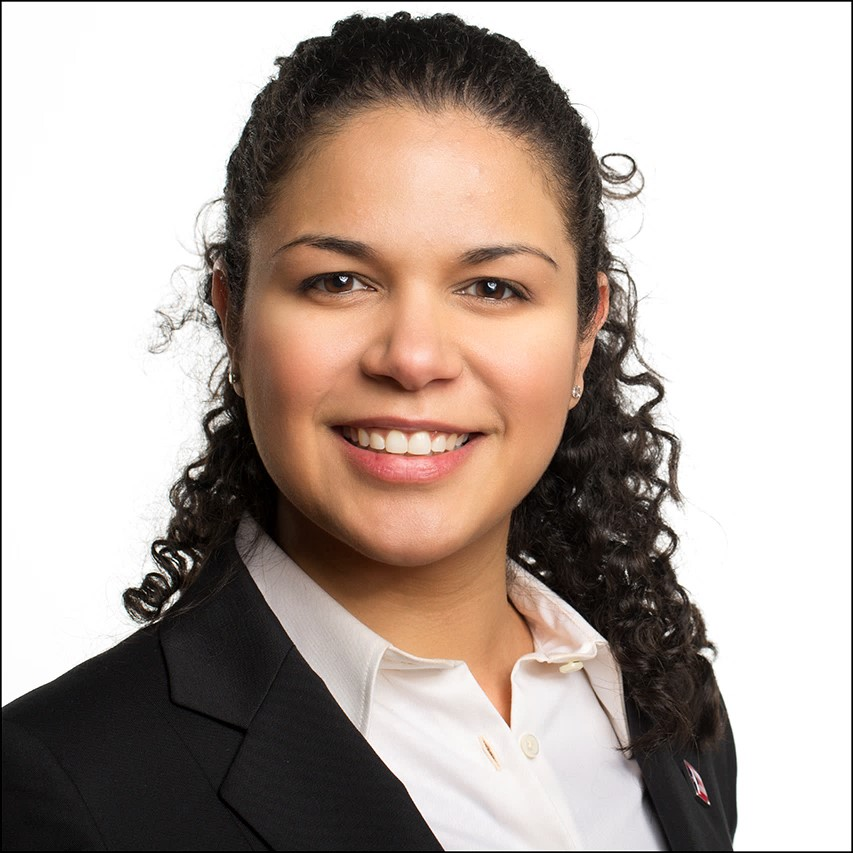
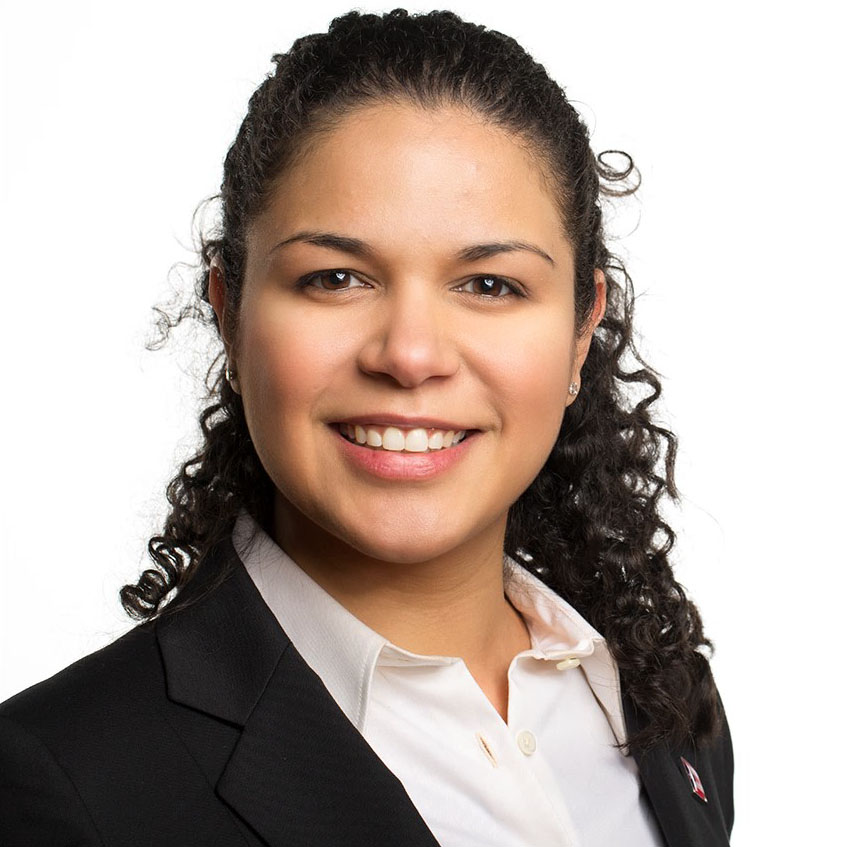
picture updates
-smaller pictures for faster loading
-christoph in group picture
-different background image for about inascon tile

diff --git a/team.md b/team.md
@@ -4,7 +4,7 @@ title: Team
 description: This year's organisation team
 nav-menu: true
 show_tile: true
-image: team_neu_sw.png
+image: team_neu_sw_christoph.jpg
 permalink: team
 ---
  {% include team.html %}

diff --git a/about.md b/about.md
@@ -2,7 +2,7 @@
 layout: post
 title: About INASCON 2022
 description: 30.08.2022 - 02.09.2022, Munich
-image: MAP_INASCON_sw.jpg
+image: nano_cubes_lq.jpg
 nav-menu: true
 permalink: about
 ---
